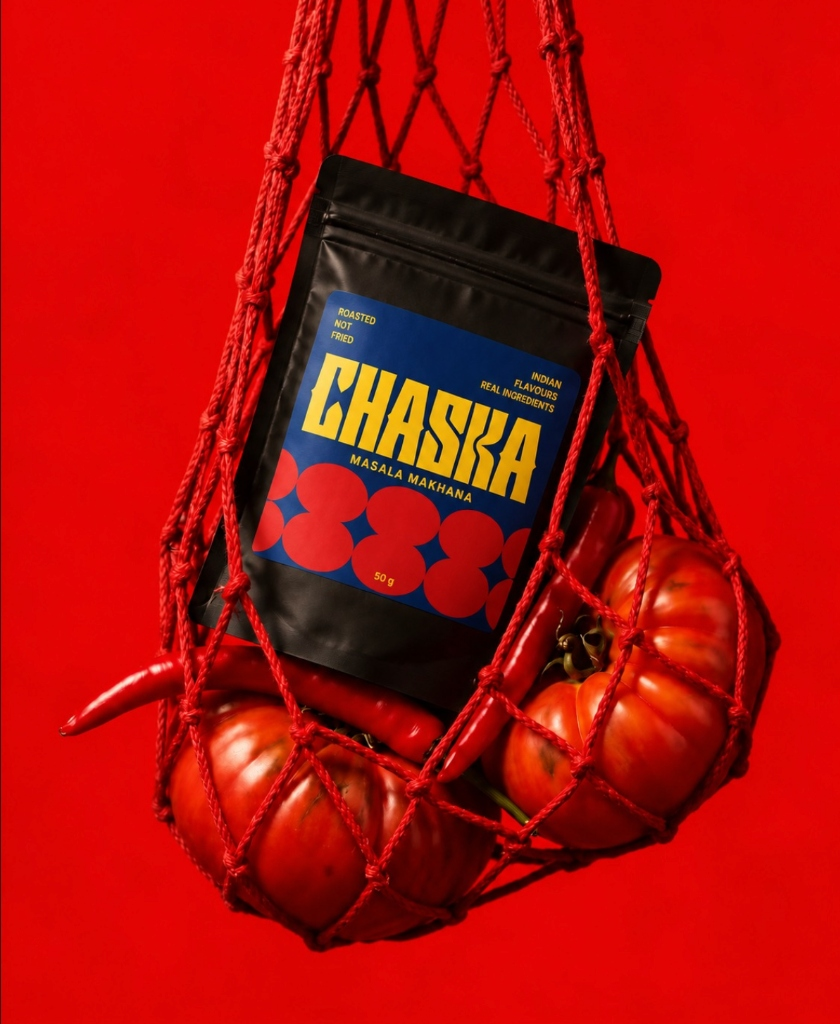
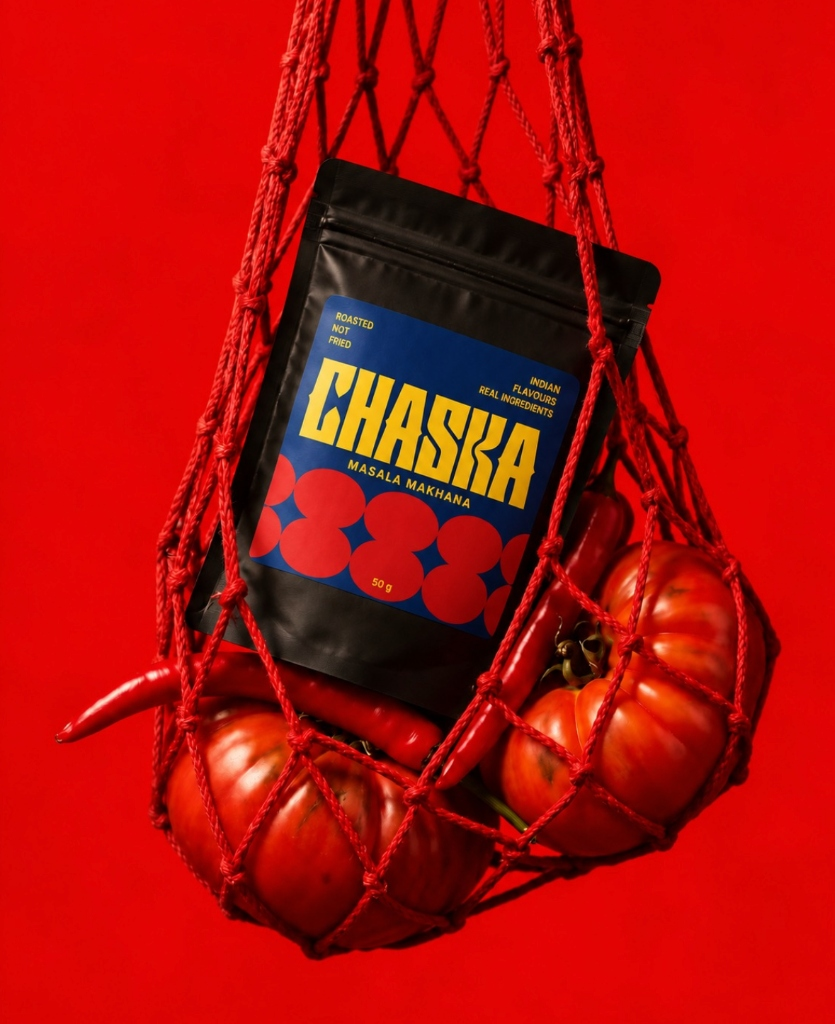
feat: integrate new high-res campaign assets for masala pouch, ingredients mesh, and gazette

Changed region(s): [[0.0623, 0.0, 0.9341, 0.9375], [0.5293, 0.3125, 0.6228, 0.3438], [0.7473, 0.7188, 0.7784, 0.75]]

diff --git a/src/data/photos.js b/src/data/photos.js
@@ -4,9 +4,9 @@
 export const photos = {
   // ── KEY CAMPAIGN & LIFESTYLE ASSETS (OFFICIAL BRAND PHOTOGRAPHY) ───────────
   masalaPouchHero: {
-    src: '/images/chaska-masala-pouch-hero.png',
-    width: 1080,
-    height: 1620,
+    src: '/images/chaska-masala-pouch-blue.jpg',
+    width: 687,
+    height: 1024,
     alt: 'CHASKA 50g Matte Black Masala Makhana Pouch against Midnight Blue',
     title: '50g Signature Masala Pouch',
   },
@@ -76,15 +76,15 @@ export const photos = {
 
   // ── FLAVOUR SPECIFIC PRODUCT PACK MAPPINGS ─────────────────────────────────
   masalaPack: {
-    src: '/images/chaska-masala-pouch-hero.png',
-    width: 1080,
-    height: 1620,
+    src: '/images/chaska-masala-pouch-blue.jpg',
+    width: 687,
+    height: 1024,
     alt: 'CHASKA Masala Makhana 50g Pouch',
   },
   periPeriPack: {
-    src: '/images/chaska-masala-pouch-hero.png',
-    width: 1080,
-    height: 1620,
+    src: '/images/chaska-masala-pouch-blue.jpg',
+    width: 687,
+    height: 1024,
     alt: 'Fiery Peri Peri Makhana Pack',
   },
   chillyCheesePack: {
